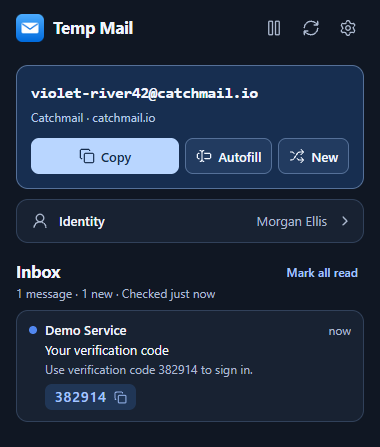
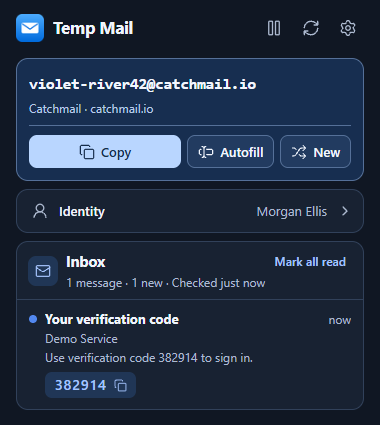
Redesign TempMail inbox and add theme settings

diff --git a/popup.css b/popup.css
@@ -4,62 +4,40 @@
   color-scheme: light dark;
 
   /* surfaces */
-  --bg: #f4f7fb;
-  --surface: #fff;
-  --hover: #f1f5fb;
-  --fill: #eaf0f8;
-  --sep: #d9e2ee;
+  --bg: light-dark(#f4f7fb, #101723);
+  --surface: light-dark(#fff, #182232);
+  --hover: light-dark(#f1f5fb, #202e43);
+  --fill: light-dark(#eaf0f8, #253248);
+  --sep: light-dark(#d9e2ee, #31415a);
 
   /* ink */
-  --label: #15243a;
-  --label-2: #52627a;
-  --label-3: #8798af;
+  --label: light-dark(#15243a, #f1f5fc);
+  --label-2: light-dark(#52627a, #adbad0);
+  --label-3: light-dark(#8798af, #61748f);
 
   /* accent + semantic */
-  --accent: #2364d2;
-  --accent-ink: #1859be;
-  --accent-tint: #e6efff;
-  --orange-ink: #8f4a00;
-  --orange-bg: rgba(255, 149, 0, .14);
-  --red-ink: #b3001b;
-  --red-bg: rgba(255, 59, 48, .12);
+  --accent: light-dark(#2364d2, #5288ef);
+  --accent-ink: light-dark(#1859be, #a6c5ff);
+  --accent-tint: light-dark(#e6efff, #203656);
+  --orange-ink: light-dark(#8f4a00, #ffb340);
+  --orange-bg: light-dark(rgba(255, 149, 0, .14), rgba(255, 159, 10, .16));
+  --red-ink: light-dark(#b3001b, #ff8a80);
+  --red-bg: light-dark(rgba(255, 59, 48, .12), rgba(255, 69, 58, .16));
 
   /* controls */
-  --seg-thumb: #fff;
-  --switch-off: rgba(120, 120, 128, .4);
-  --switch-edge: rgba(60, 60, 67, .3);
+  --seg-thumb: light-dark(#fff, #354864);
+  --switch-off: light-dark(rgba(120, 120, 128, .4), rgba(120, 120, 128, .4));
+  --switch-edge: light-dark(rgba(60, 60, 67, .3), rgba(235, 235, 245, .2));
 
   --font: -apple-system, BlinkMacSystemFont, "SF Pro Text", "Segoe UI", system-ui, Roboto, "Helvetica Neue", sans-serif;
   --mono: ui-monospace, "SF Mono", SFMono-Regular, Menlo, Consolas, monospace;
   --radius: 12px;
+  --gutter: 16px;
   --ease: cubic-bezier(.16, 1, .3, 1);
 }
 
-@media (prefers-color-scheme: dark) {
-  :root {
-    --bg: #101723;
-    --surface: #182232;
-    --hover: #202e43;
-    --fill: #253248;
-    --sep: #31415a;
-
-    --label: #f1f5fc;
-    --label-2: #adbad0;
-    --label-3: #61748f;
-
-    --accent: #5288ef;
-    --accent-ink: #a6c5ff;
-    --accent-tint: #203656;
-    --orange-ink: #ffb340;
-    --orange-bg: rgba(255, 159, 10, .16);
-    --red-ink: #ff8a80;
-    --red-bg: rgba(255, 69, 58, .16);
-
-    --seg-thumb: #354864;
-    --switch-off: rgba(120, 120, 128, .4);
-    --switch-edge: rgba(235, 235, 245, .2);
-  }
-}
+:root[data-theme=light] { color-scheme: light; }
+:root[data-theme=dark] { color-scheme: dark; }
 
 /* ---------- base ---------- */
 * { box-sizing: border-box; }
@@ -82,17 +60,20 @@ button { cursor: pointer; }
 code { font: 12px var(--mono); background: var(--fill); padding: 1px 5px; border-radius: 5px; }
 
 main { flex: 1 1 auto; min-height: 0; display: flex; flex-direction: column; }
+#view-main { container-type: inline-size; }
 .body {
   flex: 0 1 auto; min-height: 0; overflow-y: auto; overscroll-behavior: contain;
-  padding: 10px 16px 16px;
+  padding: 10px var(--gutter) 16px;
   scrollbar-width: thin; scrollbar-color: var(--label-3) transparent;
 }
+#view-main .body { padding: 3px 0 14px var(--gutter); }
+#view-main .body > * { inline-size: min(100%, calc(100cqi - 2 * var(--gutter))); }
 
 /* ---------- toolbar ---------- */
 .bar {
   flex: none; position: relative; height: 55px;
   display: flex; align-items: center; justify-content: space-between;
-  padding: 0 16px; background: var(--bg);
+  padding: 0 var(--gutter); background: var(--bg);
 }
 .bar::after { content: ""; position: absolute; left: 0; right: 0; bottom: 0; height: 1px; background: var(--sep); opacity: 0; transition: opacity .15s; }
 .bar.scrolled::after { opacity: 1; }
@@ -157,8 +138,8 @@ main { flex: 1 1 auto; min-height: 0; display: flex; flex-direction: column; }
   --address-ink: #f3f7ff;
   --address-muted: #b9cbe8;
   --address-line: #557098;
-  padding: 14px;
-  margin-bottom: 10px;
+  padding: 12px;
+  margin-bottom: 8px;
   border-color: var(--address-line);
   background: #172e50;
   color: var(--address-ink);
@@ -176,8 +157,8 @@ main { flex: 1 1 auto; min-height: 0; display: flex; flex-direction: column; }
 .address .sub { margin-top: 3px; color: var(--address-muted); overflow-wrap: anywhere; }
 .address .sub:empty { display: none; }
 .err { margin-top: 6px; font-size: 12px; color: #ffc0b8; }
-.actions { display: flex; flex-wrap: wrap; gap: 6px; margin-top: 13px; }
-.actions .btn { padding-inline: 10px; }
+.actions { display: flex; flex-wrap: wrap; gap: 6px; margin-top: 9px; padding-top: 9px; border-top: 1px solid var(--address-line); }
+.actions .btn { height: 33px; padding-inline: 10px; }
 .actions .primary { flex: 1; background: #b9d6ff; color: #142b4a; }
 .actions .primary:hover { background: #d3e5ff; }
 .actions .secondary { border-color: var(--address-line); background: #223b60; color: var(--address-ink); }
@@ -207,18 +188,27 @@ main { flex: 1 1 auto; min-height: 0; display: flex; flex-direction: column; }
 .notice { display: flex; align-items: center; justify-content: space-between; gap: 8px; margin: 0 0 10px; padding: 8px 12px; border-radius: 10px; background: var(--fill); color: var(--label-2); font-size: 12px; }
 
 /* ---------- inbox ---------- */
-.sect-head { display: flex; align-items: flex-start; justify-content: space-between; gap: 10px; margin: 18px 0 8px; }
-.sect-head h2 { margin: 0; font: 700 17px/1.25 var(--font); letter-spacing: -.02em; }
-.sect-head .sub { margin-top: 3px; }
+.inbox { margin: 0; }
+.sect-head {
+  display: grid; grid-template-columns: 30px minmax(0, 1fr) auto;
+  grid-template-areas: "icon title action" "icon status status";
+  align-items: center; gap: 2px 8px; padding: 9px 11px; border-bottom: 1px solid var(--sep);
+}
+.inbox-icon { grid-area: icon; display: grid; place-items: center; width: 30px; height: 30px; border-radius: 8px; background: var(--accent-tint); color: var(--accent-ink); }
+.inbox-icon .ic { width: 16px; height: 16px; }
+.sect-head h2 { grid-area: title; margin: 0; font: 700 15px/1.2 var(--font); letter-spacing: -.02em; }
+.sect-head .sub { grid-area: status; margin: 0; }
 .sect-head .sub:has(#count:empty):has(#updated:empty) { display: none; }
-.sect-head .link { margin: 0; padding: 4px 6px; }
+.sect-head .link { grid-area: action; margin: 0; padding: 3px 6px; }
+.inbox .alert { margin: 8px 10px; }
 #count:not(:empty) + #updated:not(:empty)::before { content: " · "; }
+.list { margin: 0; padding: 0; list-style: none; }
 .list:empty { display: none; }
 .list li.row { align-items: flex-start; padding: 10px 12px 11px; gap: 8px; cursor: pointer; }
 .list li.row:hover { background: var(--hover); }
 .dot { width: 8px; height: 8px; margin-top: 5px; border-radius: 50%; flex: none; background: transparent; }
 li.unread .dot { background: var(--accent); }
-li.unread .from { font-weight: 600; }
+li.unread .subj { font-weight: 700; }
 .li-body { flex: 1; min-width: 0; }
 .message-open {
   display: grid; grid-template-columns: minmax(0, 1fr); gap: 2px; width: 100%; padding: 0;
@@ -226,7 +216,8 @@ li.unread .from { font-weight: 600; }
 }
 .group .message-open:focus-visible { outline-offset: 3px; }
 .li-top { display: flex; justify-content: space-between; align-items: baseline; gap: 8px; }
-.from { flex: 1; min-width: 0; font-weight: 500; }
+.subj { flex: 1; min-width: 0; font-weight: 550; }
+.from { color: var(--label-2); font-size: 12px; }
 .time { flex: none; font-size: 12px; color: var(--label-2); font-variant-numeric: tabular-nums; }
 .from, .subj, .snip { overflow: hidden; text-overflow: ellipsis; white-space: nowrap; }
 .snip { font-size: 12px; color: var(--label-2); }
@@ -239,12 +230,9 @@ li.unread .from { font-weight: 600; }
 .code-chip:hover { background: color-mix(in srgb, var(--accent) 22%, transparent); }
 .code-chip .ic { width: 13px; height: 13px; stroke-width: 2; opacity: .85; }
 .empty {
-  display: grid; justify-items: center; gap: 5px; padding: 20px 20px 18px;
-  border: 1px dashed var(--sep); border-radius: var(--radius); background: var(--surface);
+  display: grid; justify-items: center; gap: 5px; padding: 24px 20px;
   text-align: center; color: var(--label-2);
 }
-.empty-icon { display: grid; place-items: center; width: 38px; height: 38px; margin-bottom: 4px; border-radius: 10px; background: var(--accent-tint); color: var(--accent-ink); }
-.empty-icon .ic { width: 20px; height: 20px; }
 .empty .t { font: 650 14px/1.3 var(--font); color: var(--label); }
 .empty .d { max-width: 235px; text-wrap: pretty; }
 
@@ -265,7 +253,7 @@ li.unread .from { font-weight: 600; }
 #mFrame { display: block; width: 100%; flex: 1 0 340px; min-height: 340px; margin: 0 0 12px; border: 1px solid var(--sep); border-radius: 12px; background: #fff; }
 
 /* ---------- settings ---------- */
-.set > .provider-label { margin-top: 0; }
+.set > .glabel:first-child { margin-top: 0; }
 .glabel { margin: 20px 4px 6px; font: 600 12px/1.3 var(--font); color: var(--label-2); }
 .footer { margin: 6px 4px 0; font-size: 12px; line-height: 1.4; color: var(--label-2); }
 .set .group { margin-bottom: 0; }
@@ -274,7 +262,13 @@ li.unread .from { font-weight: 600; }
 .seg { display: grid; grid-template-columns: repeat(3, 1fr); gap: 2px; padding: 3px; background: var(--fill); border: 1px solid var(--sep); border-radius: 10px; }
 .seg-btn { height: 34px; border: 0; border-radius: 7px; background: transparent; font: 500 13px/1 var(--font); color: var(--label); transition: background .15s, box-shadow .15s; }
 .seg-btn:hover { background: var(--hover); }
-.seg-btn.active { color: var(--accent-ink); background: var(--seg-thumb); font-weight: 600; box-shadow: 0 1px 3px rgba(0, 0, 0, .16), 0 0 0 .5px rgba(0, 0, 0, .04); }
+.seg-btn.active, #themeSeg input:checked + .seg-btn { color: var(--accent-ink); background: var(--seg-thumb); font-weight: 600; box-shadow: 0 1px 3px rgba(0, 0, 0, .16), 0 0 0 .5px rgba(0, 0, 0, .04); }
+#themeSeg { margin: 0; min-inline-size: 0; }
+#themeSeg label { position: relative; }
+#themeSeg input { position: absolute; inline-size: 100%; block-size: 100%; margin: 0; opacity: 0; cursor: pointer; }
+#themeSeg .seg-btn { display: grid; place-items: center; height: 28px; }
+#themeSeg input:not(:checked):hover + .seg-btn { background: var(--hover); }
+#themeSeg input:focus-visible + .seg-btn { outline: 2px solid var(--accent-ink); outline-offset: -2px; }
 
 .opt-btn .check { margin-left: auto; color: var(--accent-ink); stroke-width: 2.25; opacity: 0; }
 .opt-btn.active .check { opacity: 1; }
@@ -324,6 +318,5 @@ option { background: var(--surface); color: var(--label); }
 .plain { flex: 1; min-width: 0; height: 40px; padding: 0; border: 0; background: transparent; color: var(--label); font-size: 13px; }
 .plain.mono { font-family: var(--mono); font-size: 12px; }
 .plain::placeholder { color: var(--label-2); }
-.footer.ok { color: #1d7a36; }
+.footer.ok { color: light-dark(#1d7a36, #5fd47e); }
 .footer.bad { color: var(--red-ink); }
-@media (prefers-color-scheme: dark) { .footer.ok { color: #5fd47e; } }

diff --git a/popup.html b/popup.html
@@ -70,20 +70,20 @@
         <div class="row warn"><svg class="ic lead" aria-hidden="true"><use href="#i-pause"/></svg><span class="grow">Auto-check is paused</span><button id="btnResume" class="link">Resume</button></div>
       </div>
 
-      <div class="sect-head">
-        <div>
-          <h2>Inbox</h2>
+      <section class="group inbox" aria-labelledby="inboxTitle">
+        <div class="sect-head">
+          <span class="inbox-icon"><svg class="ic" aria-hidden="true"><use href="#i-mail"/></svg></span>
+          <h2 id="inboxTitle">Inbox</h2>
+          <button id="btnReadAll" class="link" hidden>Mark all read</button>
           <div class="sub"><span id="count"></span><span id="updated"></span></div>
         </div>
-        <button id="btnReadAll" class="link" hidden>Mark all read</button>
-      </div>
-      <div id="status" class="alert" role="alert" hidden><svg class="ic" aria-hidden="true"><use href="#i-triangle-alert"/></svg><span id="statusText"></span></div>
-      <ul id="list" class="group list"></ul>
-      <div id="empty" class="empty" hidden>
-        <span class="empty-icon"><svg class="ic" aria-hidden="true"><use href="#i-mail"/></svg></span>
-        <div class="t">No mail yet</div>
-        <div class="d">Verification codes and links appear here as soon as they arrive.</div>
-      </div>
+        <div id="status" class="alert" role="alert" hidden><svg class="ic" aria-hidden="true"><use href="#i-triangle-alert"/></svg><span id="statusText"></span></div>
+        <ul id="list" class="list"></ul>
+        <div id="empty" class="empty" hidden>
+          <div class="t">No mail yet</div>
+          <div class="d">Verification codes and links appear here as soon as they arrive.</div>
+        </div>
+      </section>
     </div>
   </main>
 
@@ -114,8 +114,14 @@
       <span></span>
     </div>
     <div class="body set">
+      <h2 class="glabel" id="themeLabel">Appearance</h2>
+      <fieldset id="themeSeg" class="seg" aria-labelledby="themeLabel">
+        <label><input type="radio" name="theme" value="auto" checked><span class="seg-btn">Auto</span></label>
+        <label><input type="radio" name="theme" value="light"><span class="seg-btn">Light</span></label>
+        <label><input type="radio" name="theme" value="dark"><span class="seg-btn">Dark</span></label>
+      </fieldset>
 
-      <h2 class="glabel provider-label" id="providerLabel">Email provider</h2>
+      <h2 class="glabel" id="providerLabel">Email provider</h2>
       <div class="seg" id="provSeg" role="radiogroup" aria-labelledby="providerLabel">
         <button type="button" class="seg-btn" role="radio" data-provider="catchmail">Catchmail</button>
         <button type="button" class="seg-btn" role="radio" data-provider="temptf">temp.tf</button>

diff --git a/popup.js b/popup.js
@@ -158,11 +158,11 @@ function renderList() {
     const codes = codesOf(m);
     const chips = codes.map(c => `<button class="code-chip" data-code="${esc(c)}" title="Copy code" aria-label="Copy code ${esc(c)}">${esc(c)}${ic('copy', 'ic i-copy')}${ic('check', 'ic i-check')}</button>`).join('');
     return `<li class="row${state.seen.has(m.id) ? '' : ' unread'}" data-id="${esc(m.id)}">
-      <span class="dot"></span>
+      <span class="dot" aria-hidden="true"></span>
       <div class="li-body">
         <button class="message-open" type="button">
-          <span class="li-top"><span class="from">${esc(senderName(m.from))}</span><span class="time">${esc(ago(m.date))}</span></span>
-          <span class="subj">${esc(m.subject || '(no subject)')}</span>
+          <span class="li-top"><span class="subj">${esc(m.subject || '(no subject)')}</span><span class="time">${esc(ago(m.date))}</span></span>
+          <span class="from">${esc(senderName(m.from))}</span>
           <span class="snip">${esc(bodyText(m).slice(0, 110))}</span>
         </button>
         ${chips ? `<div class="codes">${chips}</div>` : ''}
@@ -187,6 +187,7 @@ async function refresh(manual = false) {
 
 async function loadAll() {
   state.settings = await TM.getSettings();
+  applyTheme(state.settings.theme);
   state.paused = await TM.isPaused(); renderPause();
   try {
     state.current = await TM.ensureEmail();
@@ -335,8 +336,15 @@ async function ensureMgAccess() {
   catch (_) { return false; }
 }
 
+function applyTheme(theme) {
+  document.documentElement.dataset.theme = theme === 'light' || theme === 'dark' ? theme : 'auto';
+}
+
 function renderSettings() {
   const s = state.settings;
+  document.querySelectorAll('#themeSeg input').forEach(input => {
+    input.checked = input.value === document.documentElement.dataset.theme;
+  });
   ui.provider = ['catchmail', 'temptf', 'mygmail'].includes(s.provider) ? s.provider : 'catchmail';
   const dom = (s.catchmailDomain || 'catchmail.io').toLowerCase();
   ui.custom = !CM_DOMAINS.includes(dom);
@@ -363,6 +371,8 @@ async function renderHistory() {
 }
 async function saveSettings() {
   const s = state.settings;
+  s.theme = $('#themeSeg input:checked').value;
+  applyTheme(s.theme);
   s.provider = ui.provider;
   s.mygmailKey = $('#sMgKey').value.trim();
   s.mygmailEmail = $('#sMgEmail').value.trim();

diff --git a/shared.js b/shared.js
@@ -196,6 +196,7 @@ const TM = (() => {
   const store = chrome.storage.local;
 
   const DEFAULTS = {
+    theme: 'auto',
     dot: true,
     plus: true,
     providers: { catchmail: true, gmail: true, outlook: false, hotmail: false, edu: false },

diff --git a/README.md b/README.md
@@ -31,12 +31,13 @@ TempMail gives Chrome and Brave a disposable inbox that checks for mail in the b
 - **Safe message viewer** — sandboxed iframe, remote images blocked until you allow them, attachments downloadable
 - **Privacy controls** — pause button (⏸) stops all background checks, wake-ups and notifications until you resume; address history (last 5)
 - **Three mail providers** — Catchmail (3 domains + custom domains via MX), temp.tf, and **MyGmail**: your own Gmail via +aliases and dot variants, switchable in Settings
-- **Light and dark themes** — follows your system setting, with visible focus and keyboard navigation through inbox messages
+- **Theme preference** — choose Auto, Light, or Dark under Settings → Appearance. Auto follows your system.
 
 ## Recent changes
 
 - **MyGmail setup** now uses Nullstacks MailAPI. **Fetch Gmail address** fills in the Gmail address associated with your API key. [Setup instructions](#mygmail-setup)
 - **Compact address card** puts **Copy** first, with **Autofill** and **New** alongside it.
+- **Grouped inbox** puts the check status, messages, and empty state in one panel. Message rows lead with the subject and keep one-click code copying.
 - **Keyboard navigation** lets you open inbox messages with Enter or Space. Going back returns focus to the message you opened.
 
 ## Screenshots
